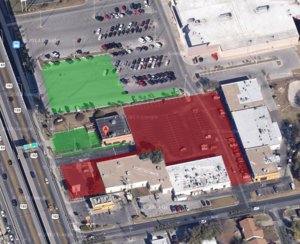
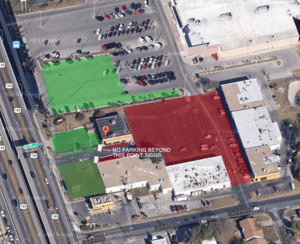
revised boundries for the map

Changed region(s): [[0.18, 0.5738, 0.57, 0.832]]

diff --git a/_layouts/meeting.html b/_layouts/meeting.html
@@ -13,11 +13,10 @@ layout: default
 		<td valign="100">
       <font size="2" face="fixed">
         <b>NOTE:</b> <i>Our parking situation has changed. If you do not follow
-      	these guidelines <b>you WILL be towed</b>. You must ONLY park infront of Mr
-        Tramps, or in one of the three spaces directly on the side of the
-        building. Do NOT park at the L-shaped strip mall behind Mr. Tramps, or at the
-        furniture store to the right of Mr Tramps. If there is no additional
-        parking you must park in the Target parking lot.</i>
+        these guidelines <b>you WILL be towed</b>. Your choices for parking are
+        infront of Mr Tramps, in front of the Furniture store (NOT the side),
+        or in the Target parking lot. Do NOT park at the L-shaped strip mall
+        behind Mr. Tramps. Use the image for a reference.</i>
       </font>
     </td>
     <td>
